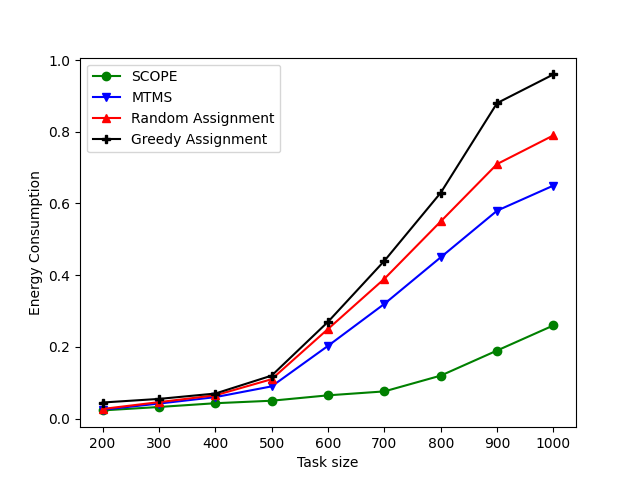
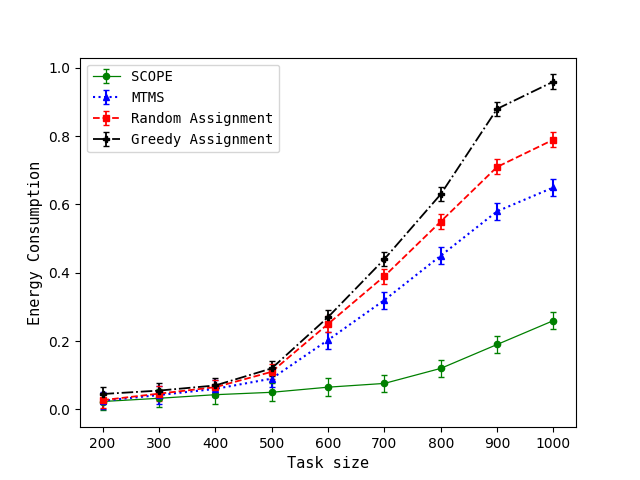
tasksize vs energy graph updated

diff --git a/dummygraph.py b/dummygraph.py
@@ -303,15 +303,20 @@ def taskSizeVsEnergy():
         y3.append(float(lines[3]))
         y4.append(float(lines[4]))
 
-    plt.xlabel('Task size')
-    plt.ylabel('Energy Consumption')
+    plt.xlabel('Task size', fontsize=11, fontname='monospace')
+    plt.ylabel('Energy Consumption', fontsize=11, fontname='monospace')
 
-    plt.plot(x1, y4, marker='o', c='g', label='SCOPE')
-    plt.plot(x1, y1, marker='v', c='b', label='MTMS')
-    plt.plot(x1, y2, marker='^', c='r', label='Random Assignment')
-    plt.plot(x1, y3, marker='P', c='k', label='Greedy Assignment')
+    plt.errorbar(x1, y4, color='g', label='SCOPE', yerr=0.026, marker='o', capsize=2, linestyle='solid', linewidth=0.9,
+                 markersize=4.5)
+    plt.errorbar(x1, y1, color='b', label='MTMS', yerr=0.025, marker='^', capsize=2, linestyle='dotted', linewidth=1.5,
+                 markersize=4.7)
+    plt.errorbar(x1, y2, color='r', label='Random Assignment', yerr=0.022, marker='s', capsize=2, linestyle='dashed',
+                 linewidth=1.3, markersize=4.7)
+    plt.errorbar(x1, y3, color='k', label='Greedy Assignment', yerr=0.021, marker='P', capsize=2, linestyle='dashdot',
+                 linewidth=1.3, markersize=4.7)
 
-    plt.legend()
+    font = font_manager.FontProperties(family='monospace', weight='regular', style='normal', size=10)
+    plt.legend(prop=font)
     plt.savefig("Images/tasksizevsenergy.png")
     plt.show()
 
@@ -419,8 +424,8 @@ def taskSizeVsTaskDropBar():
 # serverVsTaskDrop()
 # serverVsTaskDropBar()
 
-taskSizeVsLatency()
-# taskSizeVsEnergy()
+# taskSizeVsLatency()
+taskSizeVsEnergy()
 # taskSizeVsUtilityPerUnitCost()
 # taskSizeVsTaskDrop()
 # taskSizeVsTaskDropBar()
